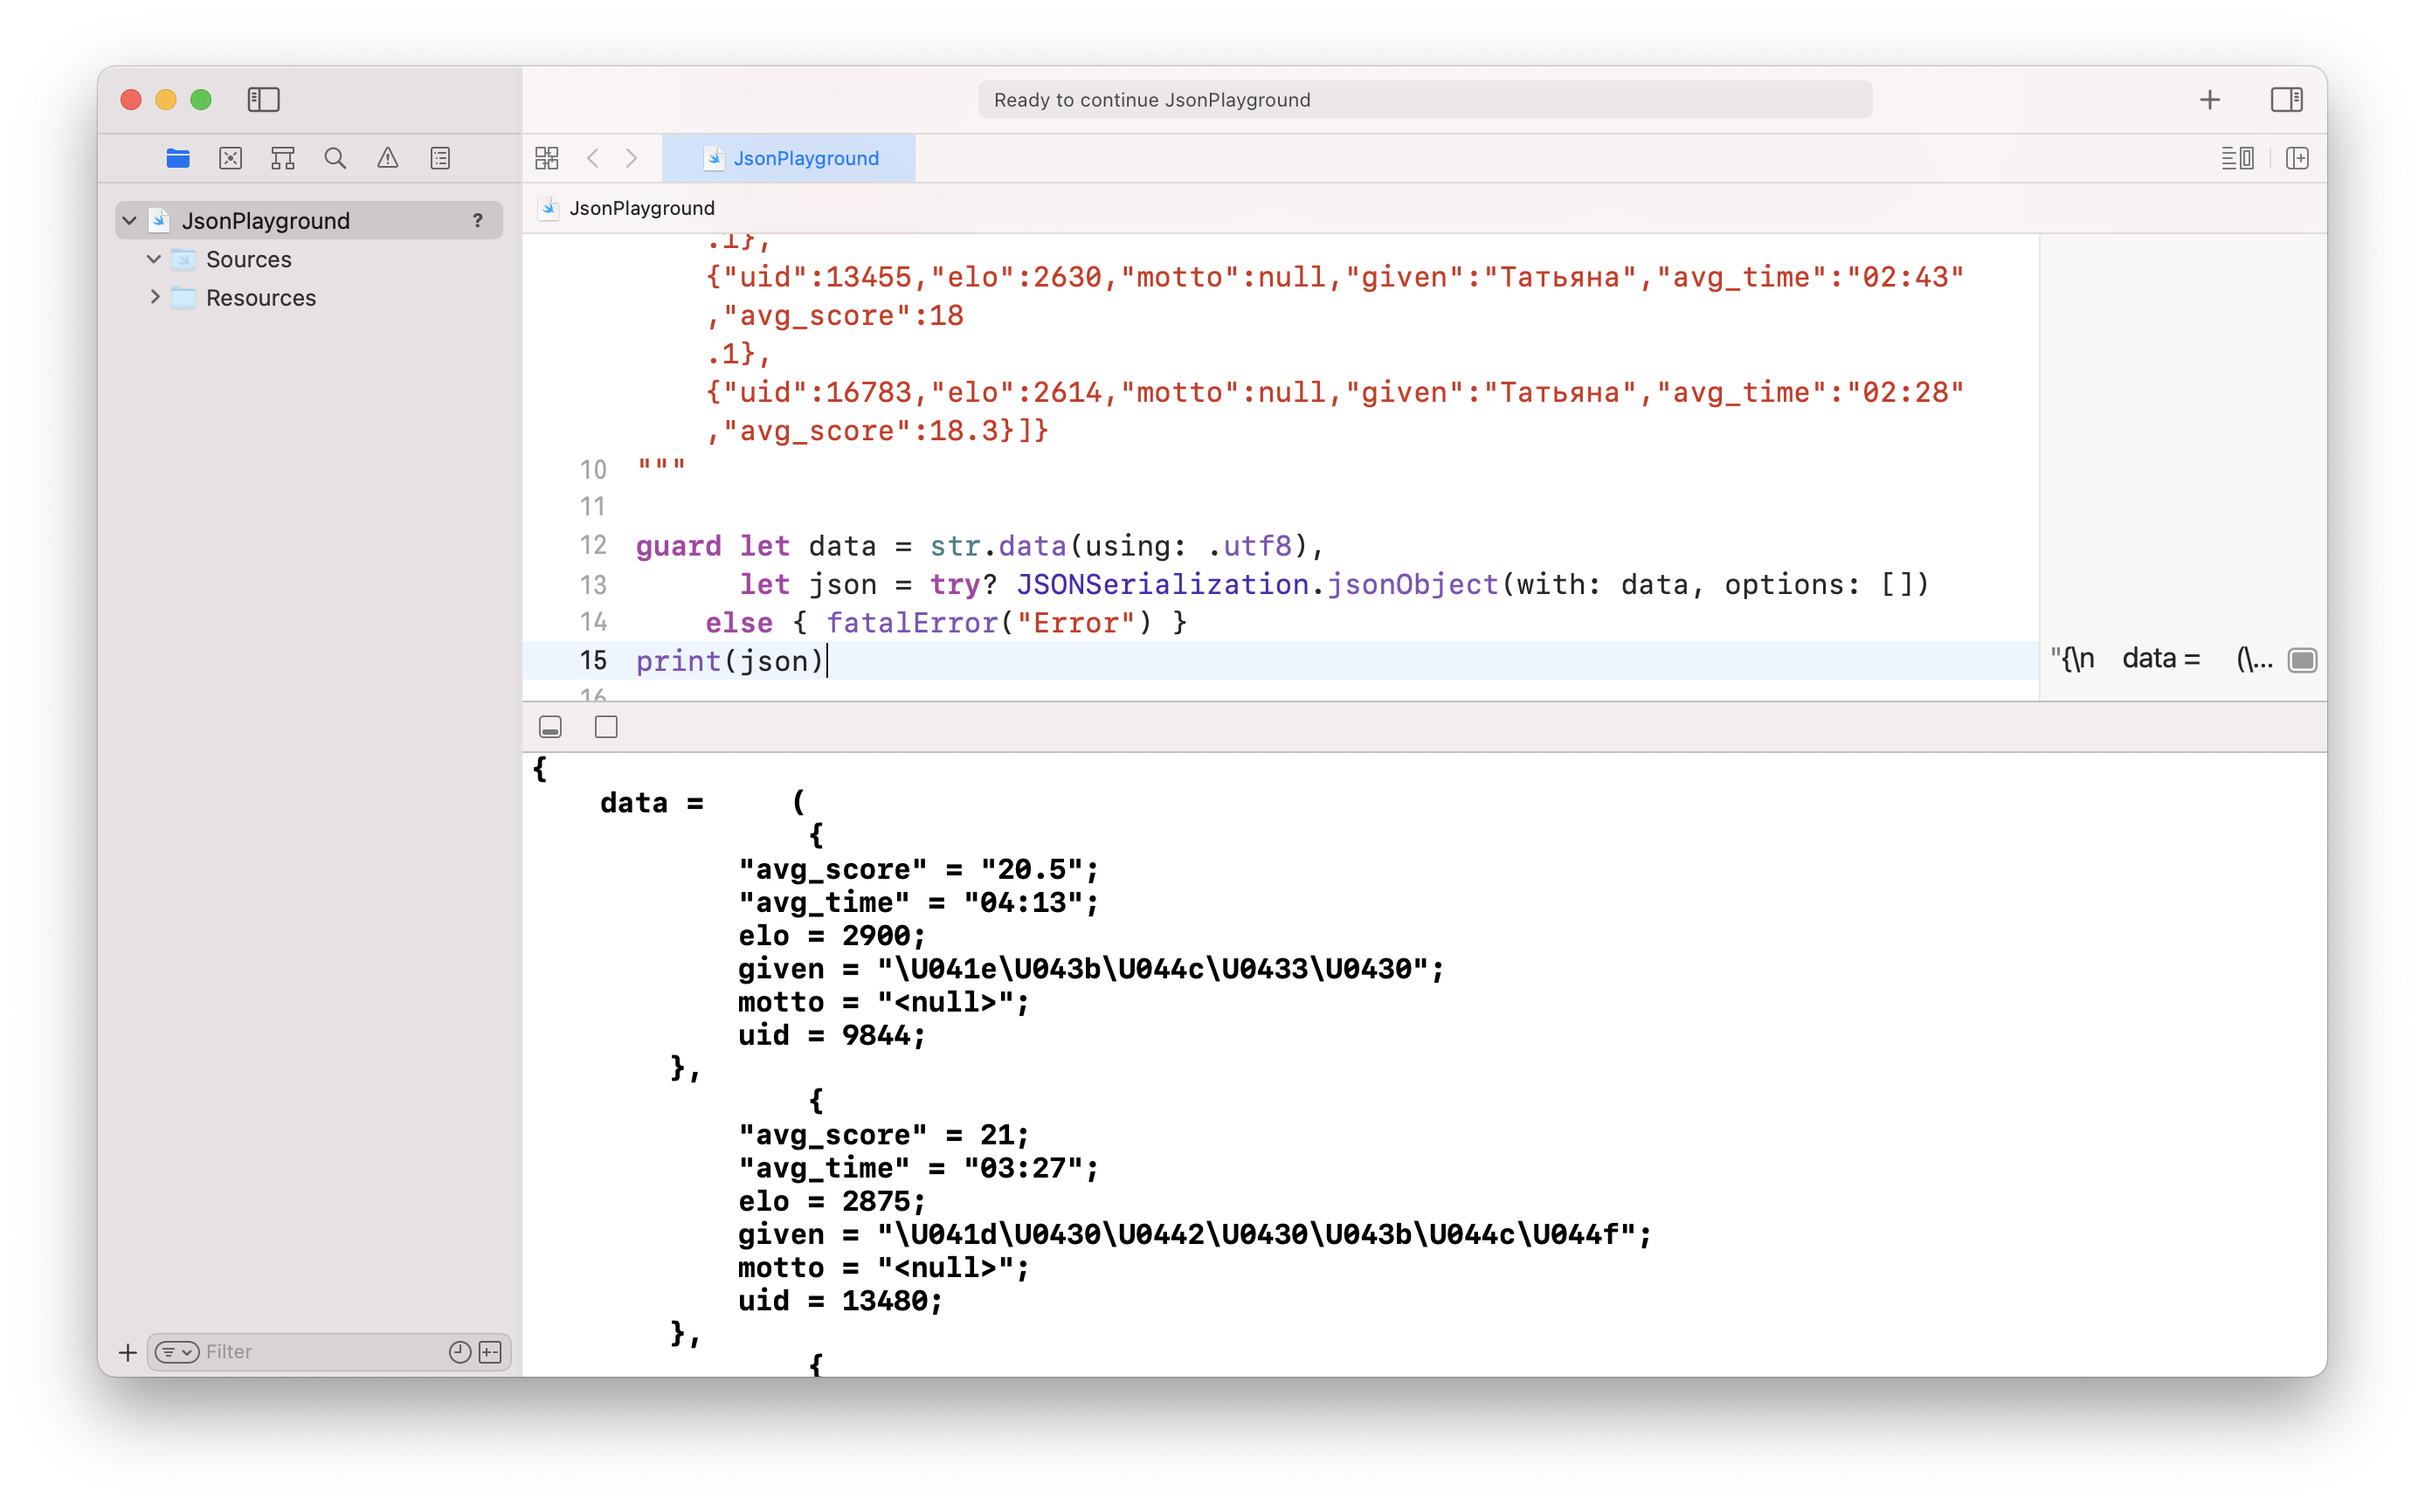
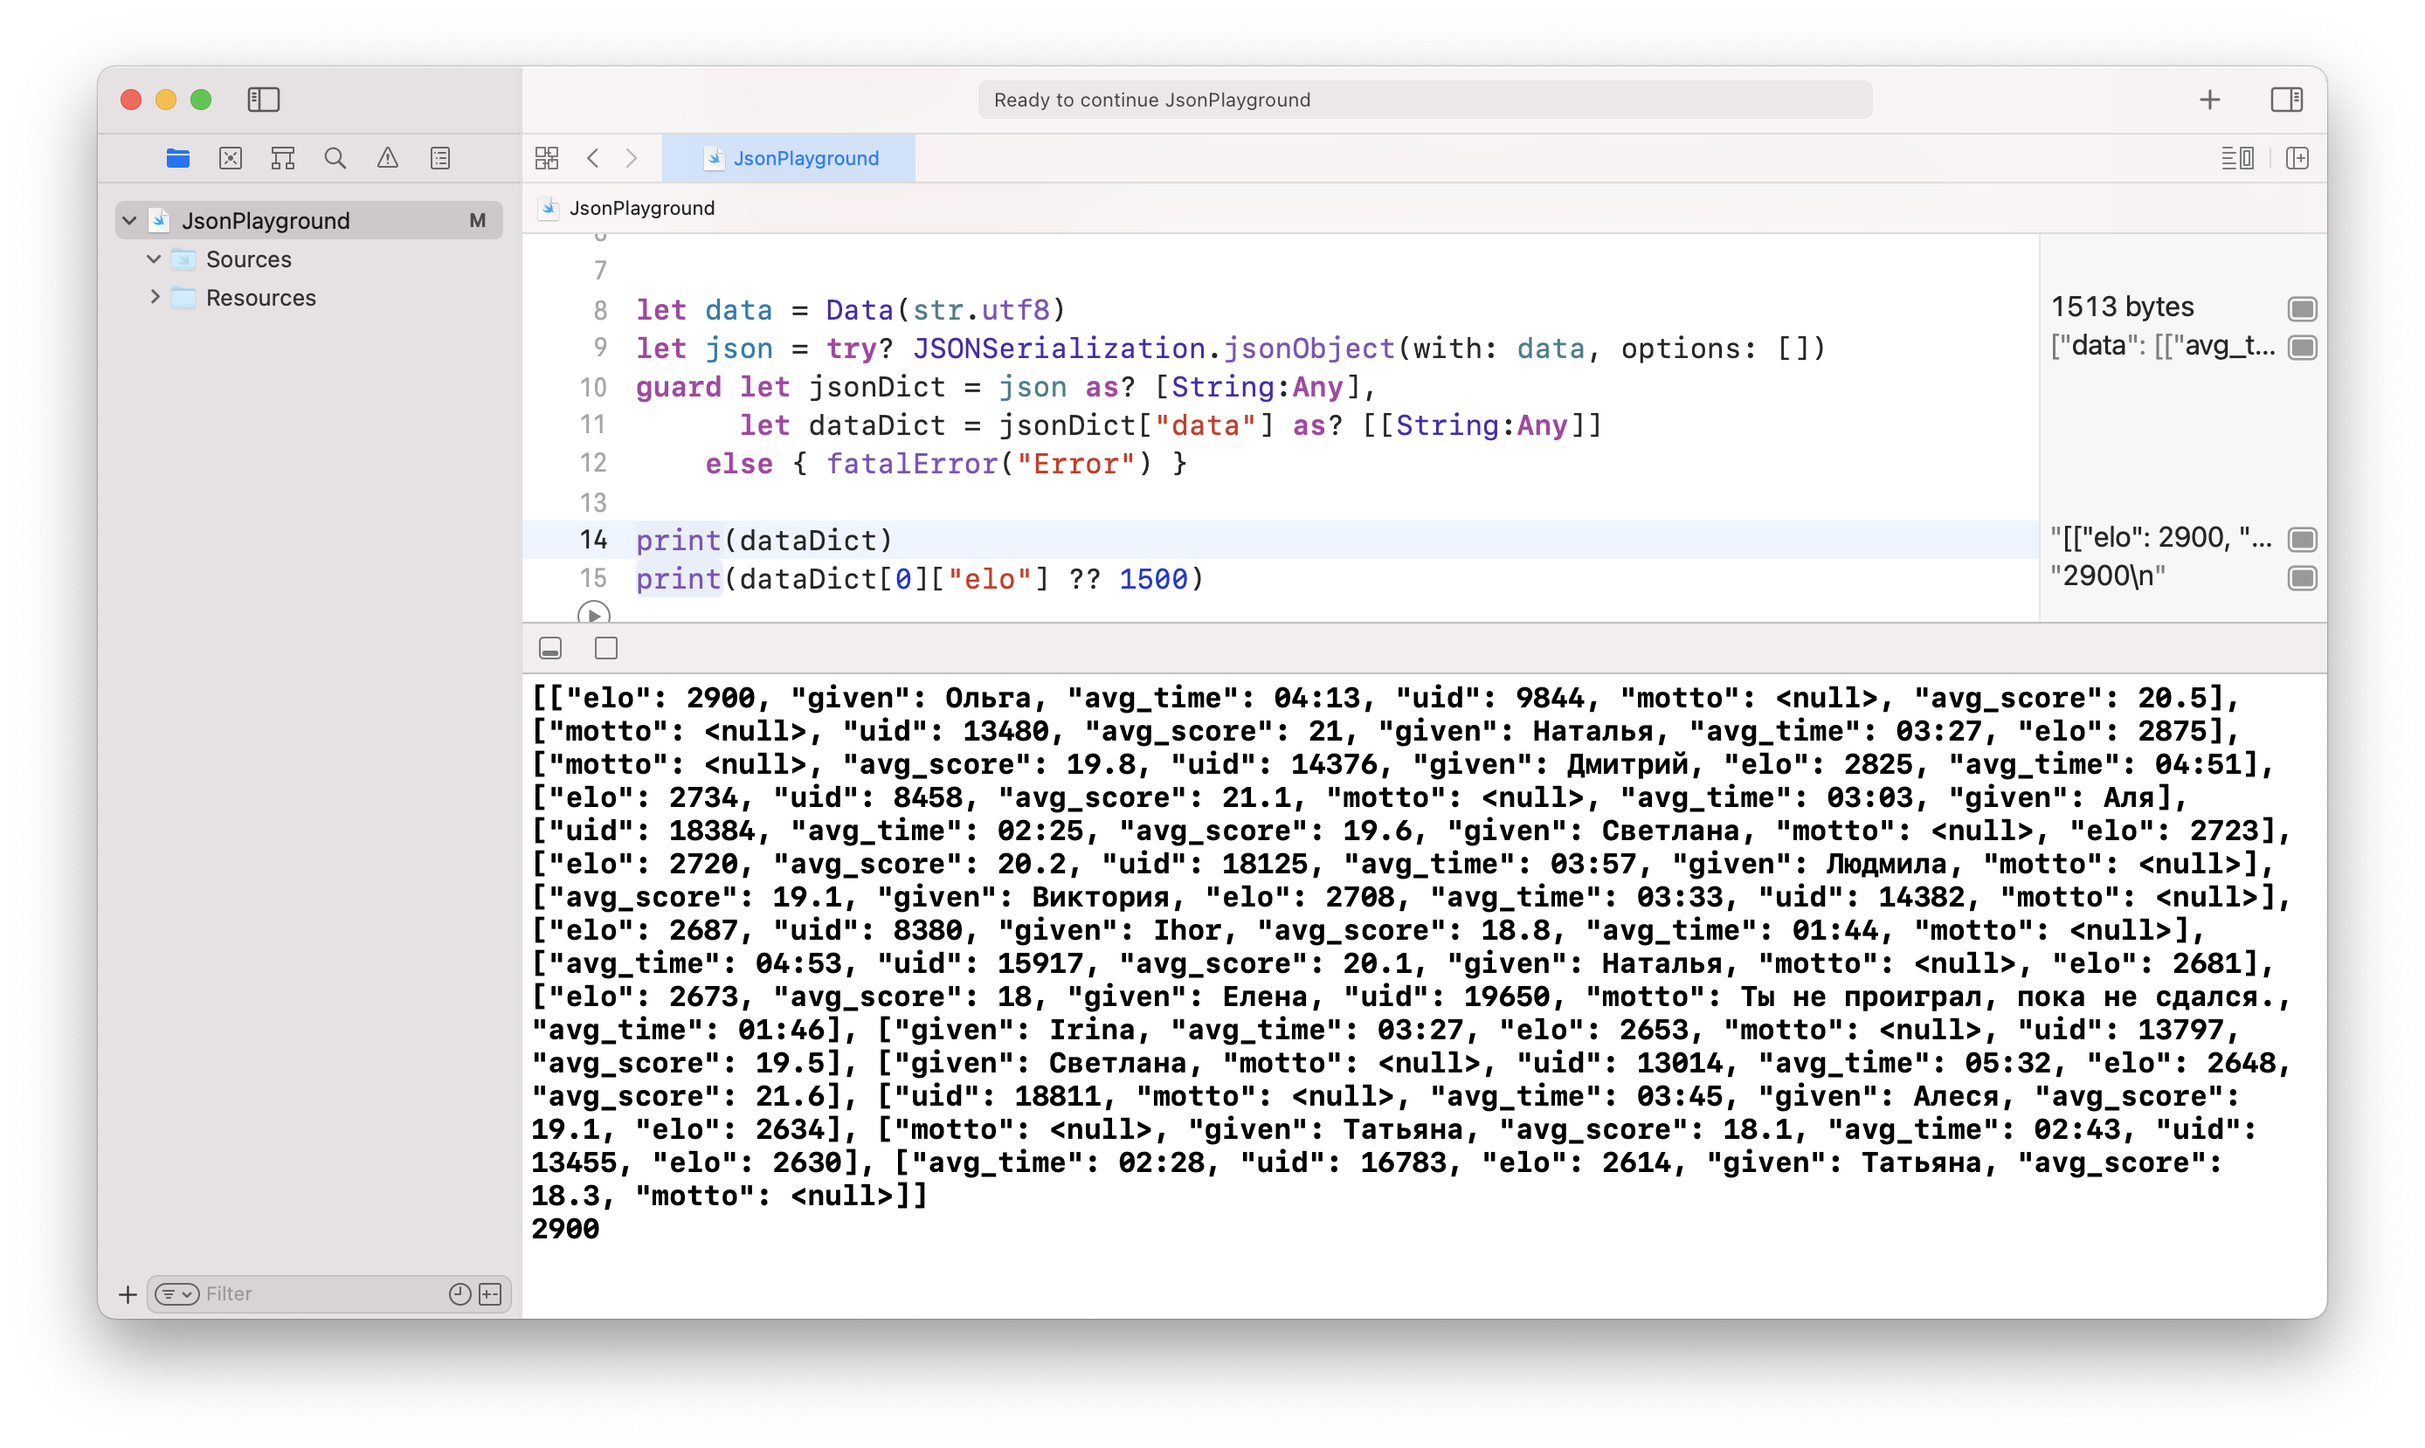
Fix syntax error in JsonPlayground

diff --git a/JsonPlayground.playground/Contents.swift b/JsonPlayground.playground/Contents.swift
@@ -1,17 +1,15 @@
 import UIKit
-import Foundation
-import Combine
-
-var greeting = "Hello, playground"
 
 var str =
 """
 {"data": [{"uid":9844,"elo":2900,"motto":null,"given":"Ольга","avg_time":"04:13","avg_score":20.5},{"uid":13480,"elo":2875,"motto":null,"given":"Наталья","avg_time":"03:27","avg_score":21.0},{"uid":14376,"elo":2825,"motto":null,"given":"Дмитрий","avg_time":"04:51","avg_score":19.8},{"uid":8458,"elo":2734,"motto":null,"given":"Аля","avg_time":"03:03","avg_score":21.1},{"uid":18384,"elo":2723,"motto":null,"given":"Светлана","avg_time":"02:25","avg_score":19.6},{"uid":18125,"elo":2720,"motto":null,"given":"Людмила","avg_time":"03:57","avg_score":20.2},{"uid":14382,"elo":2708,"motto":null,"given":"Виктория","avg_time":"03:33","avg_score":19.1},{"uid":8380,"elo":2687,"motto":null,"given":"Ihor","avg_time":"01:44","avg_score":18.8},{"uid":15917,"elo":2681,"motto":null,"given":"Наталья","avg_time":"04:53","avg_score":20.1},{"uid":19650,"elo":2673,"motto":"Ты не проиграл, пока не сдался.","given":"Елена","avg_time":"01:46","avg_score":18.0},{"uid":13797,"elo":2653,"motto":null,"given":"Irina","avg_time":"03:27","avg_score":19.5},{"uid":13014,"elo":2648,"motto":null,"given":"Светлана","avg_time":"05:32","avg_score":21.6},{"uid":18811,"elo":2634,"motto":null,"given":"Алеся","avg_time":"03:45","avg_score":19.1},{"uid":13455,"elo":2630,"motto":null,"given":"Татьяна","avg_time":"02:43","avg_score":18.1},{"uid":16783,"elo":2614,"motto":null,"given":"Татьяна","avg_time":"02:28","avg_score":18.3}]}
 """
 
-guard let data = str.data(using: .utf8),
-      let json = try? JSONSerialization.jsonObject(with: data, options: [])
+let data = Data(str.utf8)
+let json = try? JSONSerialization.jsonObject(with: data, options: [])
+guard let jsonDict = json as? [String:Any],
+      let dataDict = jsonDict["data"] as? [[String:Any]]
     else { fatalError("Error") }
-print(json)
 
-//print(json["data"][0])
+print(dataDict)
+print(dataDict[0]["elo"] ?? 1500)

diff --git a/README.md b/README.md
@@ -72,6 +72,11 @@ based on [Swiftful Thinking](https://github.com/SwiftfulThinking/SwiftUI-Continu
 ![screenshot](https://raw.github.com/afarber/ios-questions/master/FetchJsonEscapable/screenshot.png)
 
 
+[JsonPlayground](https://github.com/afarber/ios-questions/tree/master/JsonPlayground.playground):
+
+![screenshot](https://raw.github.com/afarber/ios-questions/master/JsonPlayground.png)
+
+
 [MyAuth](https://github.com/afarber/ios-questions/tree/master/MyAuth):
 
 ![screenshot](https://raw.github.com/afarber/ios-questions/master/MyAuth/screenshot.png)
